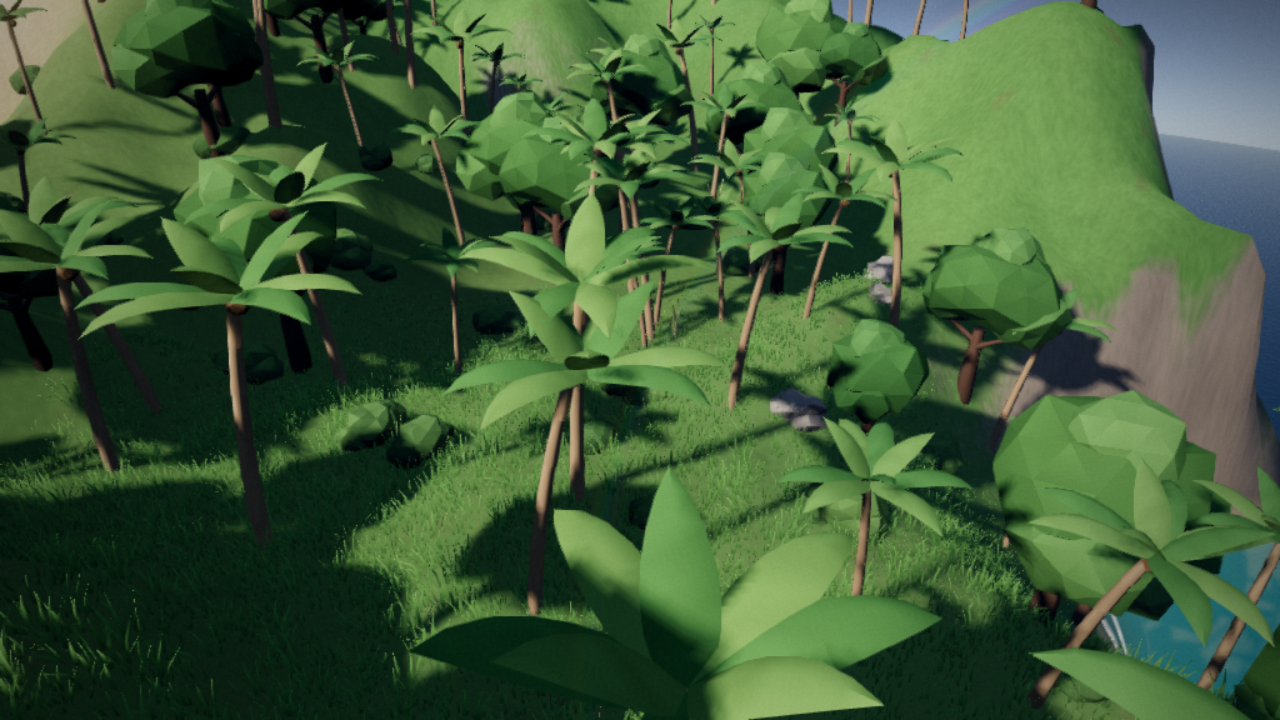
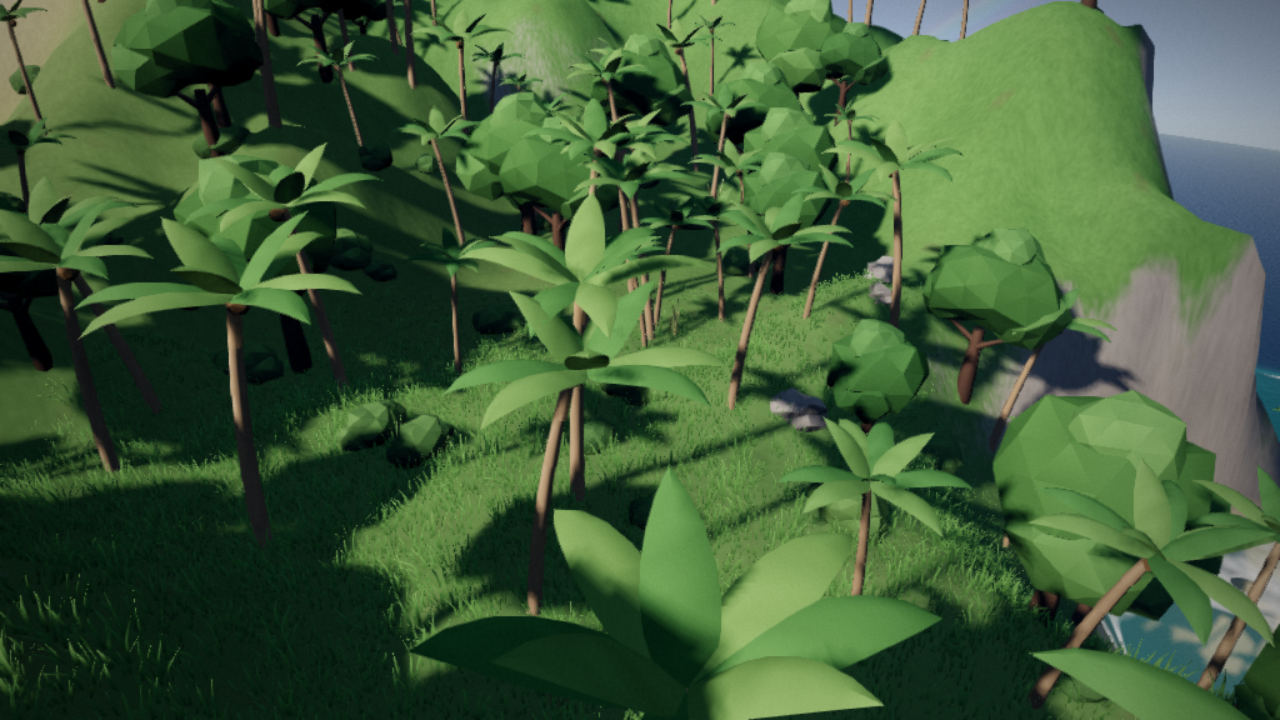
Low-camera sky glow fades out by the atmosphere's limb (no hard edge from above the shell); fresh captures; QUALITY_LOG Pass 5
Claude-Session: https://claude.ai/code/session_01P1K7jeGpkvrVy88twc6oDA

diff --git a/src/render/atmosphere.ts b/src/render/atmosphere.ts
@@ -352,7 +352,11 @@ void main() {
         // the ray's elevation above the geometric horizon.
         float r0 = length(ro);
         float aboveHz = dot(rd, up0) + sqrt(max(0.0, 1.0 - (PLANET_R * PLANET_R) / (r0 * r0)));
-        domeW = max(domeW, exp(-max(aboveHz, 0.0) * 3.2) * (1.0 - smoothstep(60.0, 420.0, camAltA)));
+        // From above the shell it must be gone by the shell's limb (the ray's
+        // closest approach reaching the top of the air), or it ends in a hard edge.
+        float shellH = ATMO_R - PLANET_R;
+        float limbFade = camAltA < shellH ? 1.0 : 1.0 - smoothstep(0.3 * shellH, 0.92 * shellH, minR - PLANET_R);
+        domeW = max(domeW, exp(-max(aboveHz, 0.0) * 3.2) * (1.0 - smoothstep(60.0, 420.0, camAltA)) * limbFade);
         skyGlow = dayK * domeW;
         vec3 add = dome * dayK * lowK * domeW * 0.06;
         inscatter += add;

diff --git a/QUALITY_LOG.md b/QUALITY_LOG.md
@@ -143,6 +143,39 @@ dispositions:
 
 Pass 5 below re-scores after these fixes, with the same reviewer brief.
 
+## Pass 5 — second adversarial review
+
+Same reviewer brief, fresh agent, no knowledge of what changed. Scores barely moved:
+
+| Category | Pass 4 review | Pass 5 review |
+|---|---|---|
+| Visual beauty | 5 | 5 |
+| Visual coherence | 4 | 3 |
+| Polish / juice (visible) | 4 | 4 |
+| First-impression wow | 4 | 4 |
+
+Its verdict: "from orbit pleasant; at mid and ground zoom a good hobby or jam project,
+not a studio". The Pass 4 fixes removed the bugs it had named (no finding repeated
+verbatim), but the reviewer's core objection is the art itself: a near-photographic globe
+beside chunky toy props, and a bleached palette. Findings and dispositions:
+
+| Finding | Verdict | Fix |
+|---|---|---|
+| River a milky double ribbon over the village | real | ribbon no wider than its channel, optically deeper |
+| Starfield over sunlit ground; rainbow across space; rainbow over near foliage | real | sky glow above the horizon for low cameras; rainbows only against a bright sky or distant land |
+| Bleached sand everywhere; mountains read as dunes | real | grass at moderate moisture, gravel on dry uplands, rock in the art direction's greys |
+| Volcano: blown-out snow; straight-edged "ice sheets"; square smoke; pixel checker lava | real | snow albedo lowered; lake fringes fade toward their outer side; smoke windowed; veins thinner |
+| Meteor: crater a flat teal disc; fires as cones | partly | distant fires now soft glows; the disc is the crater lake the hydrology fills (kept) |
+| Night side grey-olive; one light cluster; aurora a flat squiggle | real | half the moonlight; a floor on distant town lights; taller curtains |
+| Green/magenta flecks at the limb; dark ring round the planet | real / physical | flecks were aurora curtains edge-on against space → faded for far cameras; the ring is the atmosphere's extinction of starlight (kept) |
+| Chronicle under the power bar; inspector showing through; ragged header; black cooldown square | real | modal placement, opaque panels, header layout, lighter cooldown sweep |
+| Lake white outline; reeds and fences aliasing | real / limit | faint lake lap instead of an outline; thin geometry aliasing is a limit of FXAA on SwiftShader |
+| Hurricane like a "6" | seed | two hurricanes spinning side by side in this world at that moment (kept) |
+| Roofs uniform straw, no banners | real | hut apex caps and house pennants in the people's colour |
+| Title "S" collides with the planet | real | planet framed right of the wordmark |
+
+Pass 6 re-scores after these fixes.
+
 ## Delight pass
 
 Small touches nobody asked for, each verified in a screenshot or in play:
